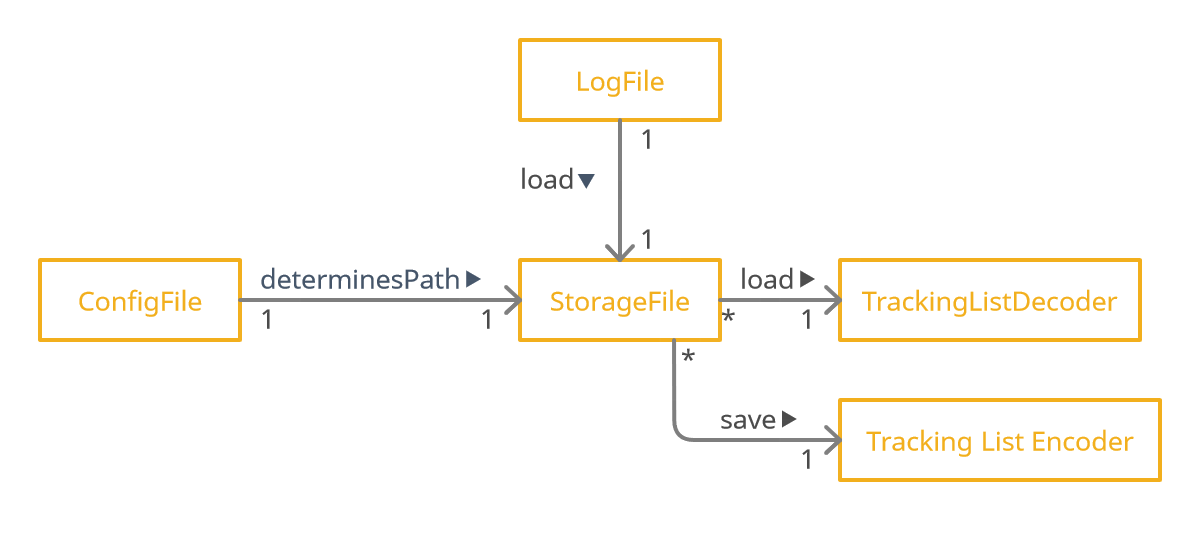
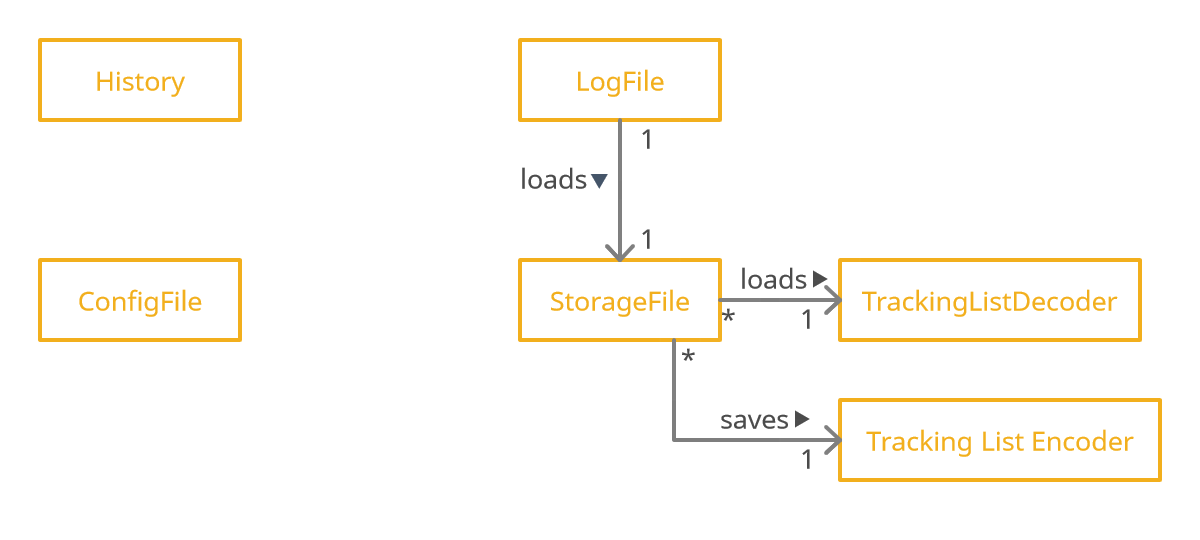
Added dg and ppp

diff --git a/docs/team/sarzorwyn.md b/docs/team/sarzorwyn.md
@@ -1,0 +1,19 @@
+# Ivan Tan Jia An - Project Portfolio
+## PROJECT: Control Your Crowd
+
+## Overview
+Control Your Crowd (CYC) is a desktop application used for managing crowd levels at any location or events.
+The user interacts with it using a Command Line Interface (CLI). It is written in Java using the
+Object-oriented programming (OOP) paradigm and has about 4.5 kLoc.
+
+## Summary of contributions
+* New feature: Added the trackingList class.
+* New feature: Added the ability to store the list.
+    
+
+The code that has been contributed can be found [here](https://nus-cs2113-ay2021s2.github.io/tp-dashboard/?search=&sort=groupTitle&sortWithin=title&since=2021-03-05&timeframe=commit&mergegroup=&groupSelect=groupByRepos&breakdown=true&tabOpen=true&tabType=authorship&tabAuthor=sarzorwyn&tabRepo=AY2021S2-CS2113T-T09-1%2Ftp%5Bmaster%5D&authorshipIsMergeGroup=false&authorshipFileTypes=docs~functional-code~test-code~other&checkedFileTypes=docs~functional-code~test-code~other)
+
+## Contributions to the User Guide
+
+## Contributions to the Developer Guide
+* Added the `storage` section diagrams and content

diff --git a/docs/DeveloperGuide.md b/docs/DeveloperGuide.md
@@ -131,6 +131,8 @@ This String is then written to a file on the disk, known on the diagram as `Stor
 As the name suggests, `TrackingListDecoder` achieves the reverse by taking the file on drive, `StoredTrackingList`,
 and interprets the file to be loaded into the memory as a `TrackingList`.
 
+![](images/storage_pathdir.png?raw=true "Storage Module file structure")
+
 `StoredTrackingList` is the `.txt` file stored in the same directory as the program.
 The location is determined by the `ConfigFile` class. 
 
